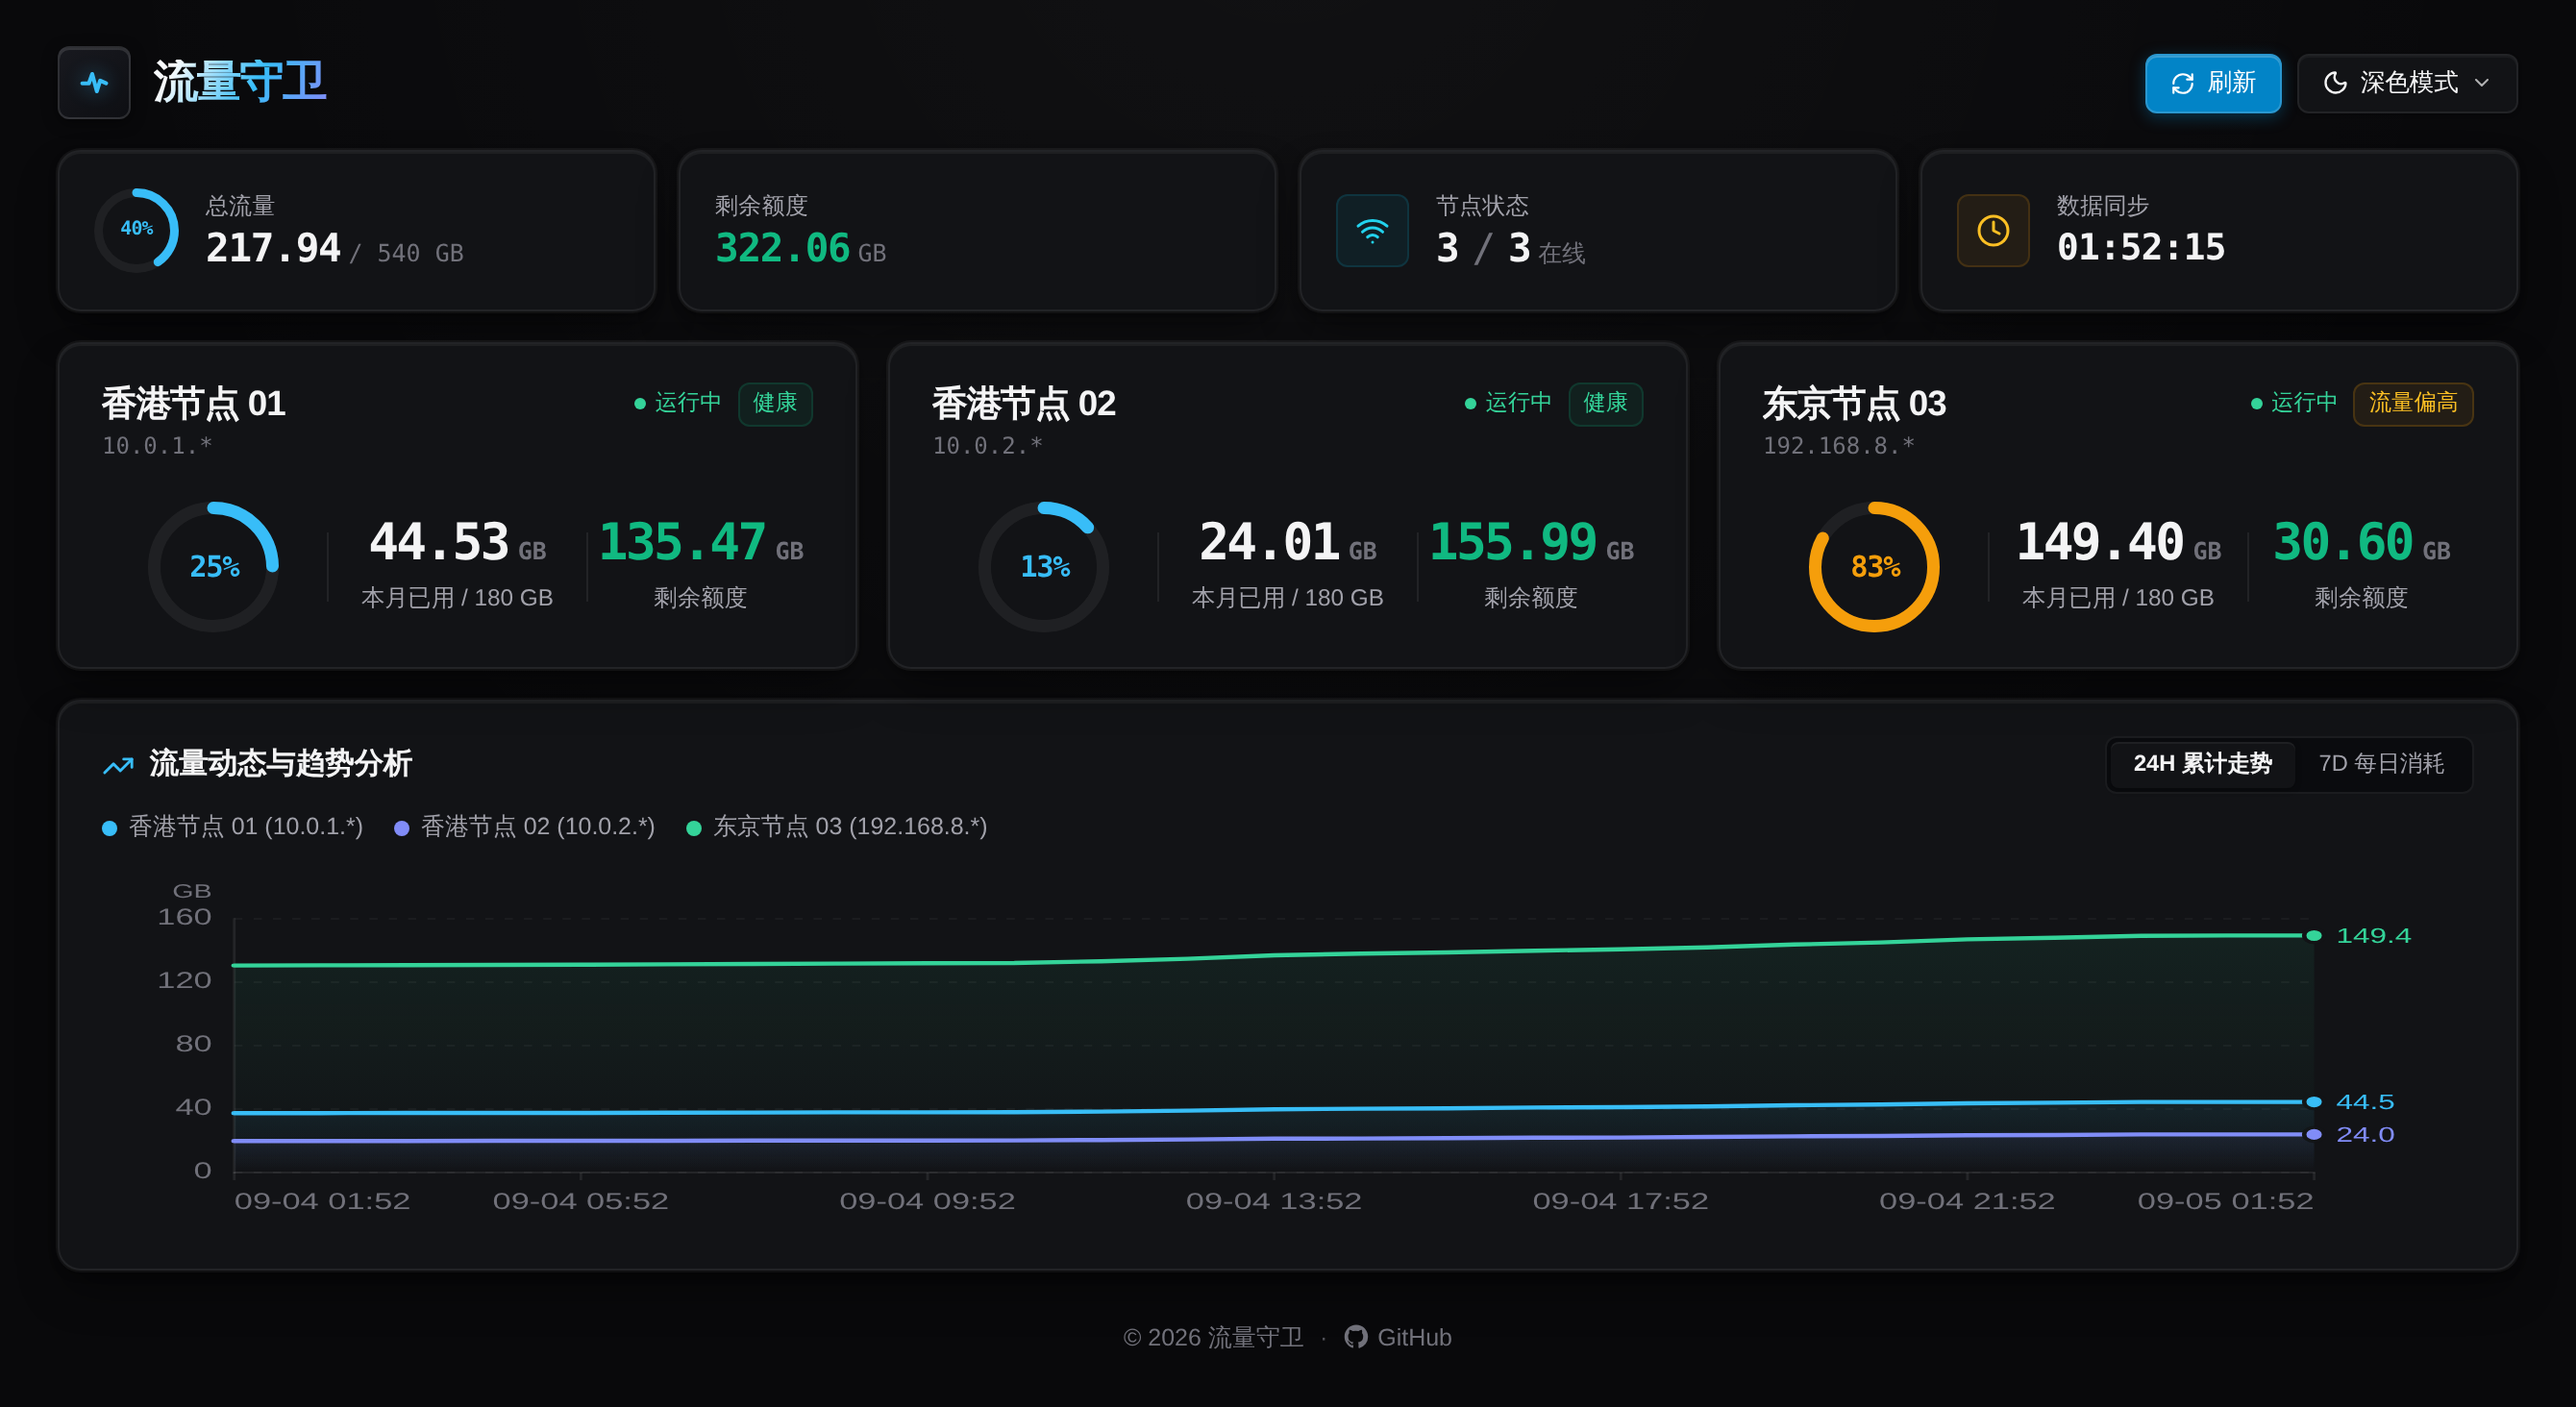
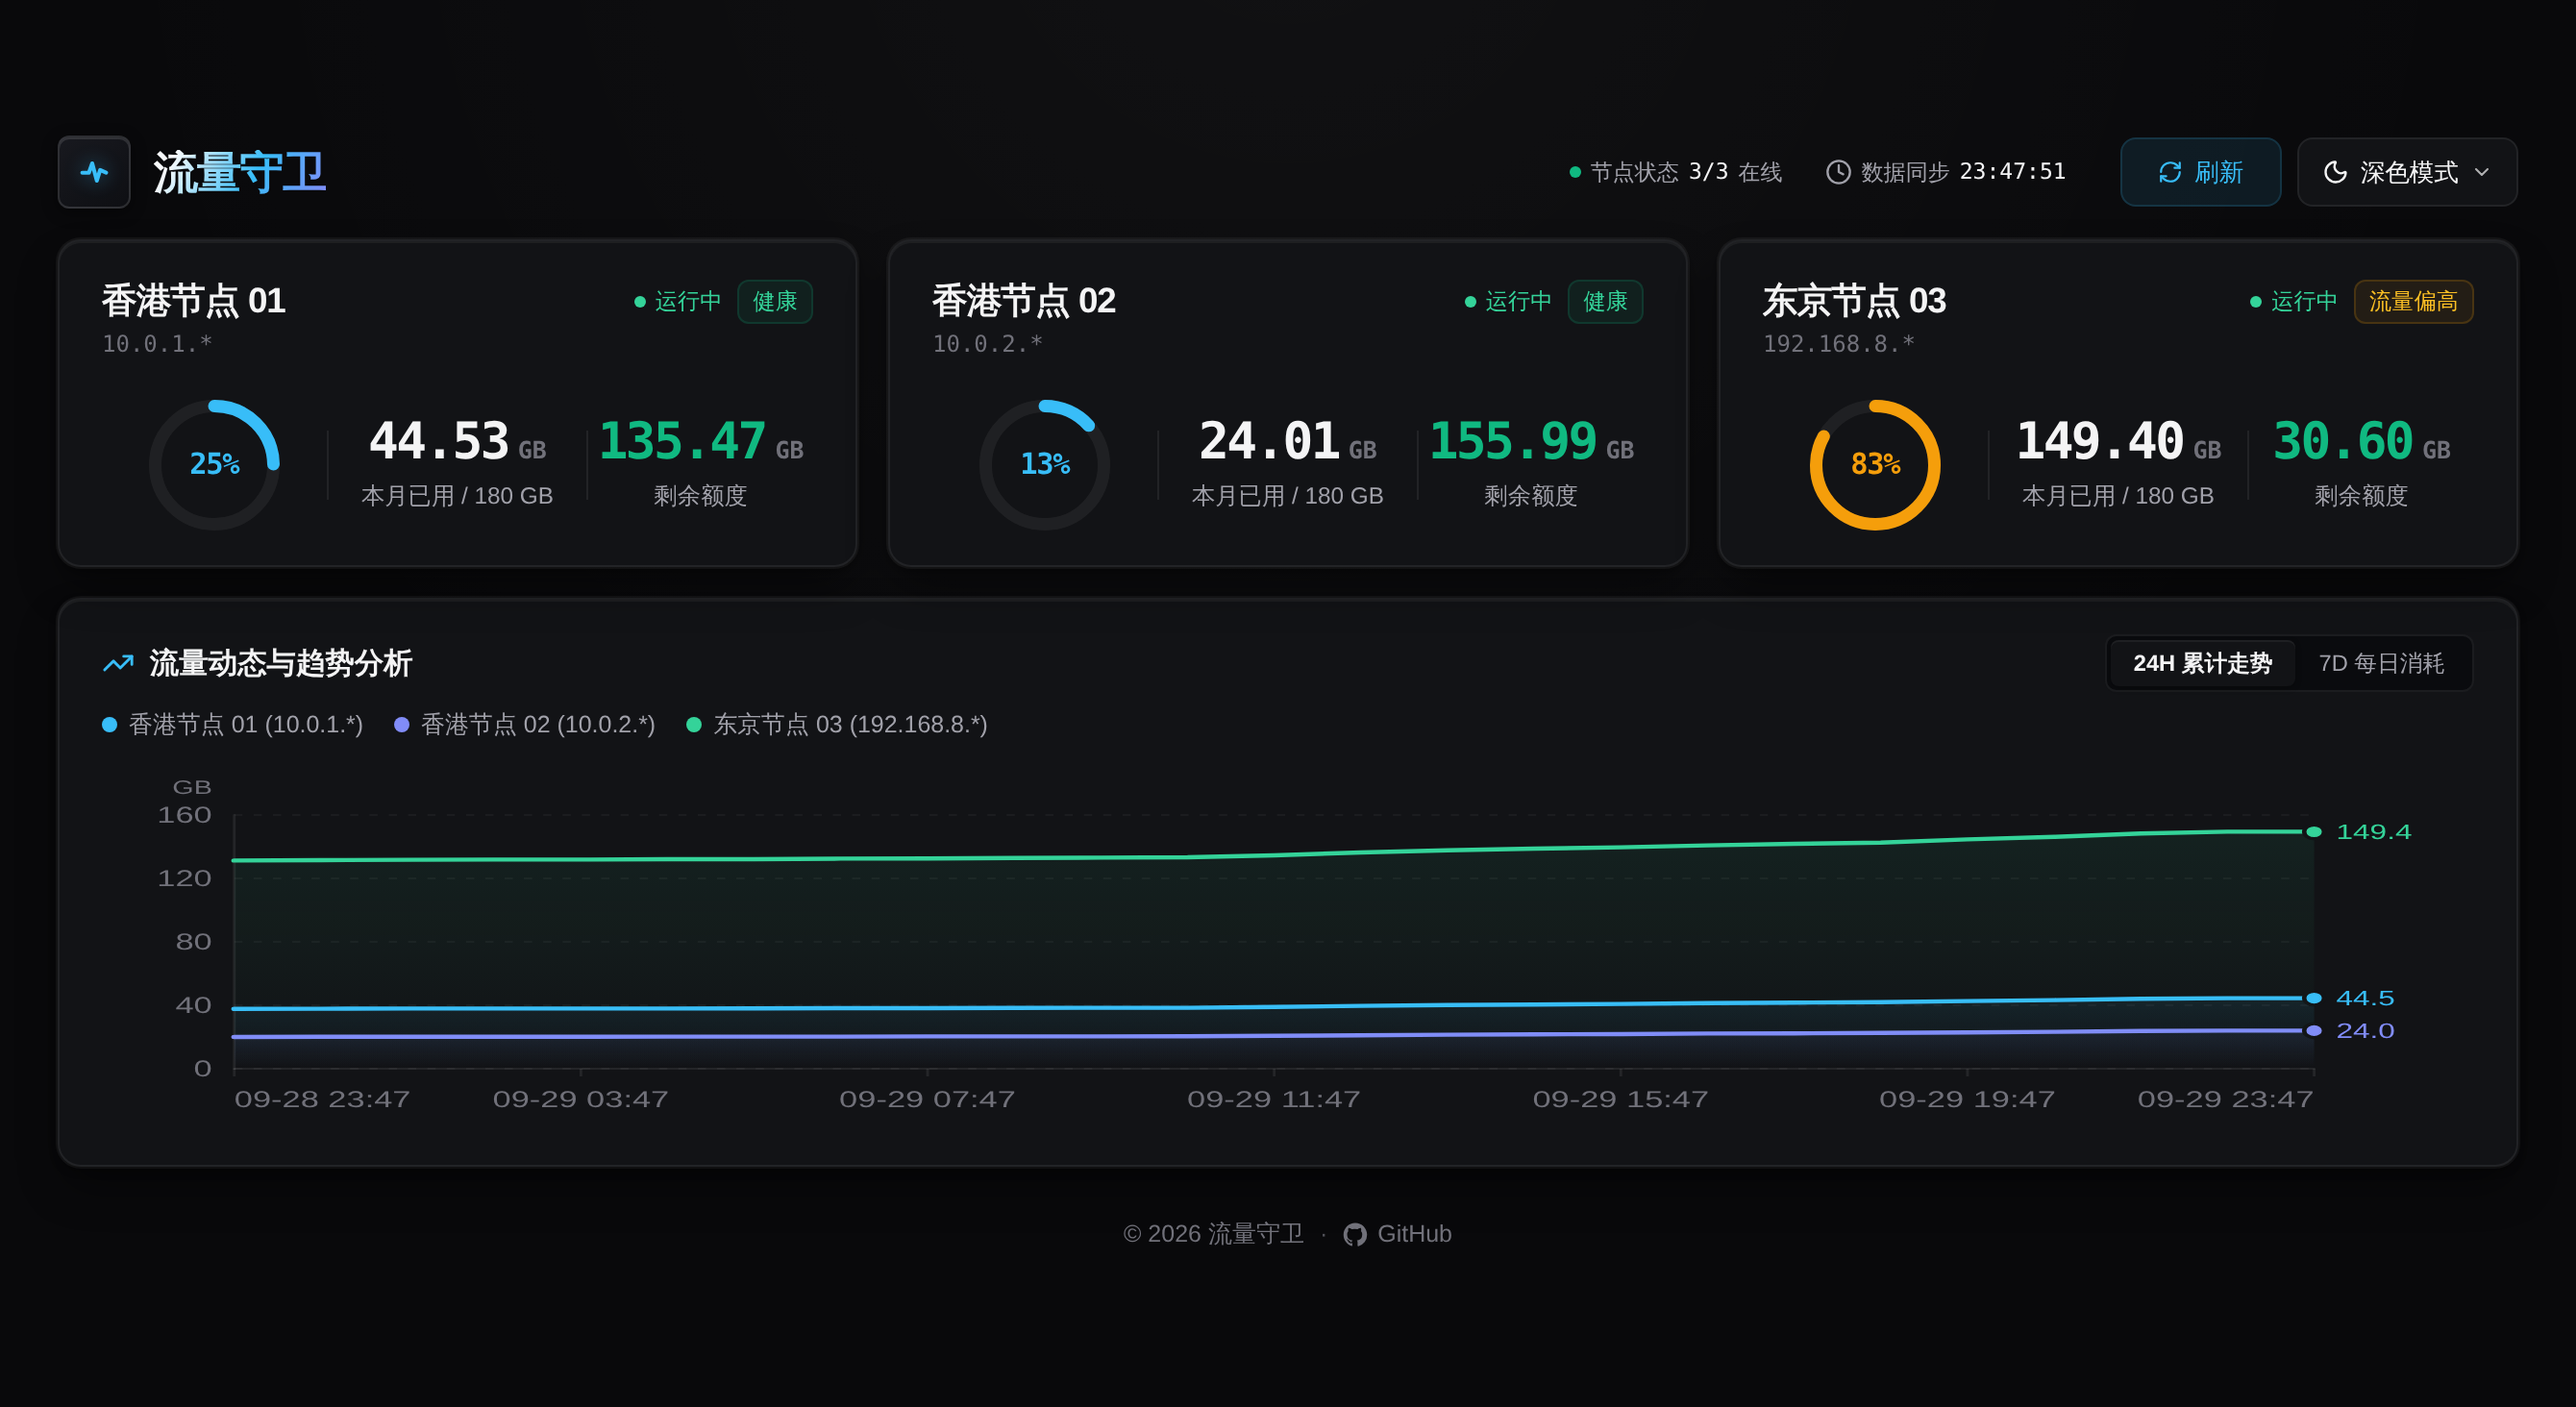
docs: 更新双主题预览截图与精简顶栏/平稳交互特性说明

diff --git a/README.md b/README.md
@@ -30,13 +30,13 @@
   <picture>
     <source media="(prefers-color-scheme: dark)" srcset="docs/images/dashboard-dark.png">
     <source media="(prefers-color-scheme: light)" srcset="docs/images/dashboard-light.png">
-    <img src="docs/images/dashboard-dark.png" alt="流量守卫 Dashboard：工业级深色主题、三列对称卡片指标与 24 小时 / 72 小时流量走势" />
+    <img src="docs/images/dashboard-dark.png" alt="流量守卫 Dashboard：精简顶栏、平稳卡片、工业级双主题与 24 小时 / 72 小时流量走势" />
   </picture>
 </a>
 
 <br/>
 
-<sub>全新工业级深色主题与对称指标设计，支持深浅色无缝切换。Demo 使用示例数据。</sub>
+<sub>全新极简工业风与对称指标设计，顶栏状态内联精简，交互平稳无抖动，支持深浅色无缝切换。Demo 使用示例数据。</sub>
 
 </div>
 
@@ -44,7 +44,8 @@
 
 ## 功能
 
-- **深色主题全面重构**：全新 Linear / Vercel 极简工业炭黑深色风格（`#09090b`），深浅主题与系统偏好无缝适配，高对比度低眼疲劳。
+- **精简顶栏与平稳交互**：顶栏精简为内联状态标签（在线节点与数据同步时间），刷新按钮固定宽度（84px）并居中，刷新中不再挤压抖动；节点卡片悬浮保持平稳外观，杜绝交互跳动。
+- **深色主题全面重构与防闪白**：全新 Linear / Vercel 极简工业炭黑深色风格（`#09090b`），内置 Anti-FOUC 机制彻底杜绝深色刷新闪白，深浅主题与系统偏好无缝适配。
 - **三列对称指标系统**：节点卡片重构为「环形用量占比仪表 - 本月已用/阈值 - 剩余额度」对称三列布局，视觉重心稳定，关键指标一目了然。
 - **24H 动态走势对齐**：流量折线图末端精准锚定至当前分钟（`now_min`），消除整点离散延迟，支持 24H 累计走势与 7D/14D 每日消耗平滑展示。
 - **动态 80% 健康警戒芯片**：引入分级状态芯片（Health Chip），用量低于 80% 保持稳态「健康」，达标 80% 后动态流转为「流量偏高」「流量预警」与「即将耗尽」。
@@ -129,7 +130,8 @@ Traffic Guard Backend (Python 3.10+)
   └─ 必要时调用阿里云 SDK 执行 Start / Stop ECS
        ↓  (HTTP / 内置高性能缓存静态服务)
 React Dashboard (Linear Dark / Modern Light)
-  ├─ 三列对称指标卡片 (环形仪表 + 已用/阈值 + 剩余)
+  ├─ 精简顶栏内联状态 (节点状态 + 同步时间 + 84px 稳定刷新按钮)
+  ├─ 三列对称平稳卡片 (环形仪表 + 已用/阈值 + 剩余额度，无浮动抖动)
   ├─ 动态 80% 健康警戒芯片 (健康 / 偏高 / 预警 / 耗尽)
   └─ 24H 累计走势 & 14D 每日消耗趋势分析
 ```
